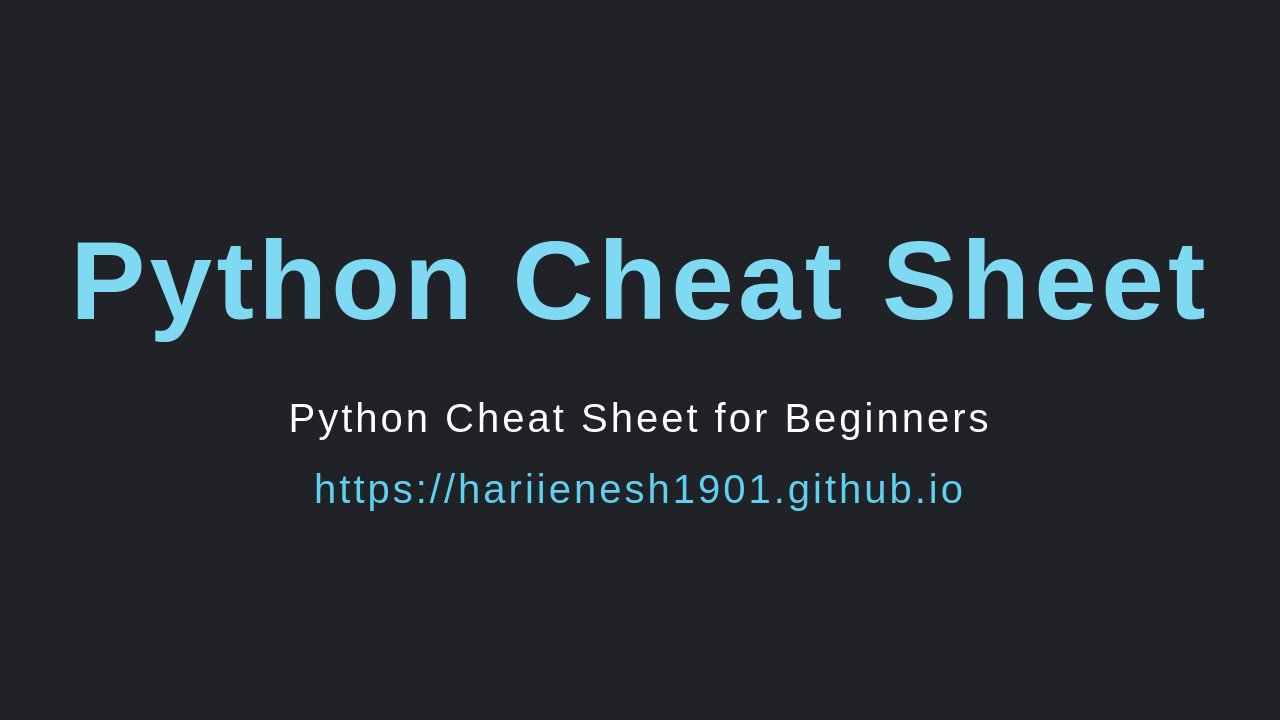
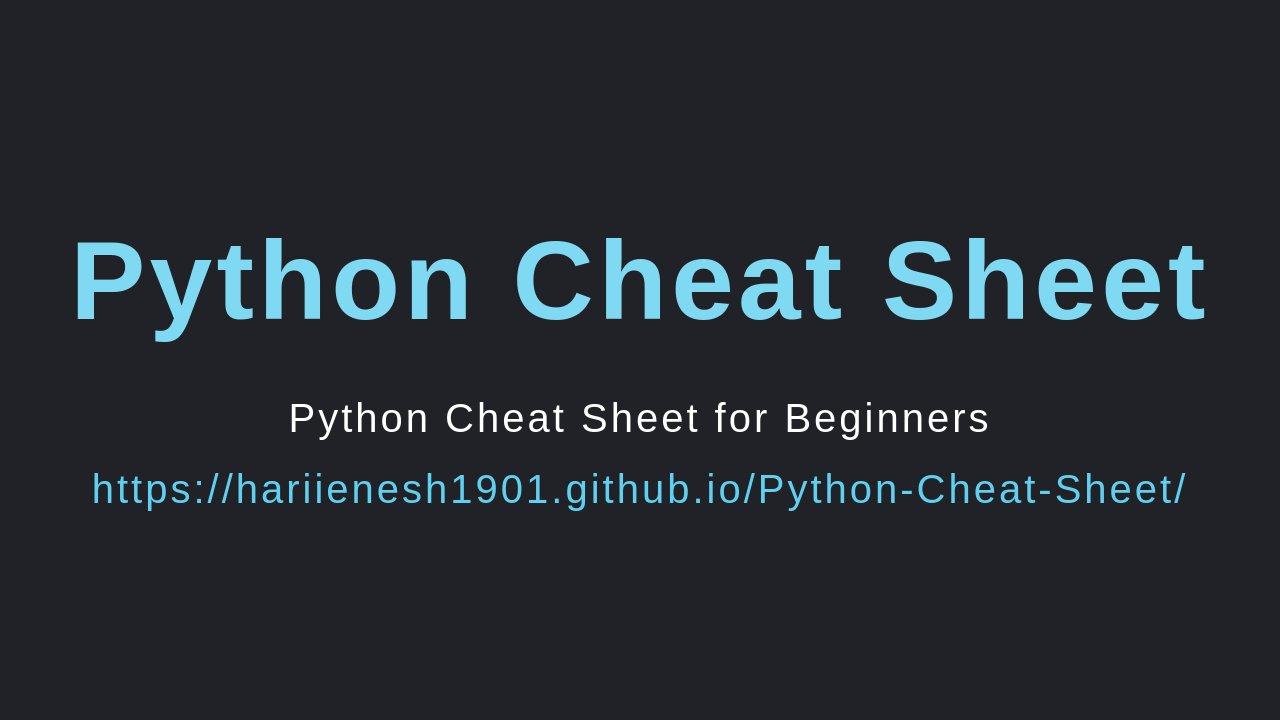
Deploying to gh-pages from  @ 892034c384cf984617a108d40e60330d918c9f21 🚀

Changed region(s): [[0.0625, 0.6417, 0.9375, 0.7028]]

diff --git a/index.html b/index.html
@@ -11,7 +11,7 @@
[1 lines of base64/hex data omitted]
 <h1><svg data-marp-fitting="svg"><foreignObject><span data-marp-fitting-svg-content> <strong>Python Cheat Sheet</strong></span></foreignObject></svg></h1>
 <p>Python Cheat Sheet for Beginners</p>
-<p><a href="https://hariienesh1901.github.io">https://hariienesh1901.github.io</a></p>
+<p><a href="https://hariienesh1901.github.io/Python-Cheat-Sheet/">https://hariienesh1901.github.io/Python-Cheat-Sheet/</a></p>
 </section>
 </foreignObject></svg><svg data-marpit-svg="" viewBox="0 0 1280 720"><foreignObject width="1280" height="720"><section data-paginate="true" data-theme="uncover" data-marpit-pagination="2" data-marpit-pagination-total="8" style="--paginate:true;--theme:uncover;" data-marpit-advanced-background="background"><div data-marpit-advanced-background-container="true" data-marpit-advanced-background-direction="horizontal"><figure style="background-image:url(&quot;https://raw.githubusercontent.com/marp-team/marp/master/marp.png&quot;);background-size:60%;"></figure></div></section></foreignObject><foreignObject width="1280" height="720"><section id="2" data-paginate="true" data-theme="uncover" data-marpit-pagination="2" data-marpit-pagination-total="8" style="--paginate:true;--theme:uncover;" data-marpit-advanced-background="content"></section>
 </foreignObject><foreignObject width="1280" height="720" data-marpit-advanced-background="pseudo"><section style="" data-marpit-advanced-background="pseudo" data-marpit-pagination="2" data-marpit-pagination-total="8"></section></foreignObject></svg><svg data-marpit-svg="" viewBox="0 0 1280 720"><foreignObject width="1280" height="720"><section id="3" data-paginate="true" data-theme="uncover" data-background-color="#123" data-color="#fff" data-marpit-pagination="3" data-marpit-pagination-total="8" style="--paginate:true;--theme:uncover;--background-color:#123;--color:#fff;color:#fff;background-color:#123;background-image:none;">
